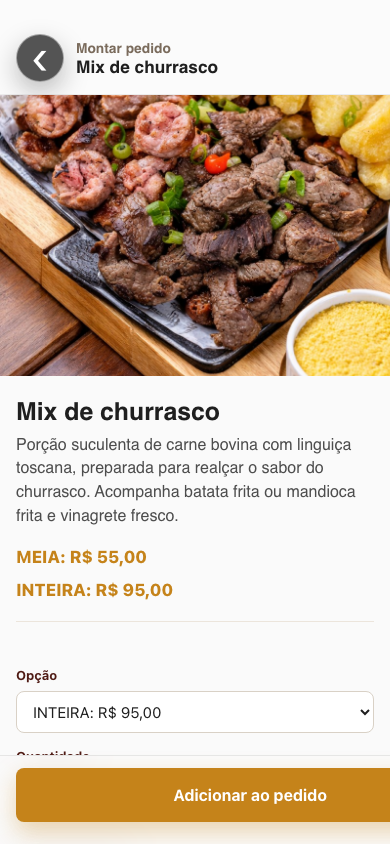
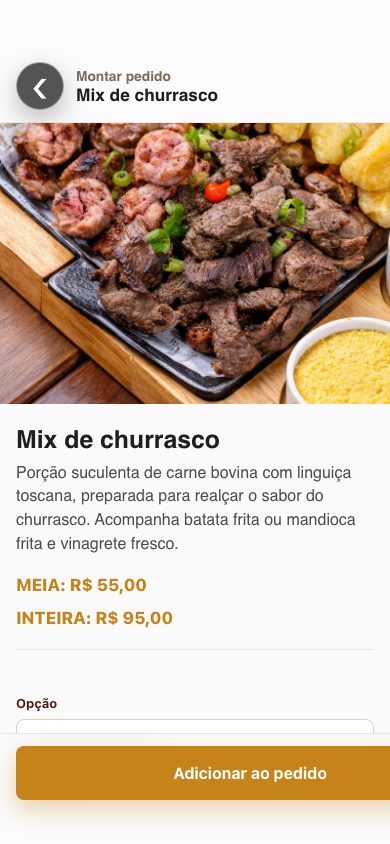
fix: improve mobile safe area layout

diff --git a/style.css b/style.css
@@ -2576,14 +2576,14 @@
 
     @media (max-width: 640px) {
       :root {
-        --app-safe-top: max(env(safe-area-inset-top), 18px);
-        --app-safe-bottom: max(env(safe-area-inset-bottom), 16px);
+        --app-safe-top: max(env(safe-area-inset-top), 44px);
+        --app-safe-bottom: max(env(safe-area-inset-bottom), 24px);
         --app-side: 16px;
       }
 
       body.screenshot-mode {
-        --app-safe-top: 34px;
-        --app-safe-bottom: 22px;
+        --app-safe-top: 54px;
+        --app-safe-bottom: 34px;
       }
 
       .mainContainer,
@@ -2615,7 +2615,7 @@
 
       .header-beco,
       .header-cardapio {
-        padding-top: var(--app-safe-top);
+        padding: calc(var(--app-safe-top) + 10px) var(--app-side) 14px;
       }
 
       .header-cardapio .header-voltar {
@@ -2723,19 +2723,28 @@
 
       .pedido-carrinho {
         right: var(--app-side);
-        bottom: var(--app-safe-bottom);
+        bottom: calc(var(--app-safe-bottom) + 10px);
         left: var(--app-side);
+        display: flex;
+        justify-content: center;
       }
 
       .pedido-carrinho-toggle {
         width: 100%;
+        max-width: 520px;
         min-height: 56px;
+        display: inline-flex;
+        align-items: center;
+        justify-content: center;
+        gap: 8px;
+        padding-right: 18px;
+        padding-left: 18px;
       }
 
       .pedido-carrinho-painel {
         right: 0;
         left: 0;
-        bottom: calc(64px + var(--app-safe-bottom));
+        bottom: calc(78px + var(--app-safe-bottom));
         width: 100%;
         max-height: calc(100vh - var(--app-safe-top) - 96px);
         border-radius: 14px;
@@ -2749,7 +2758,7 @@
 
       .detalhe-produto-header,
       .pix-header {
-        padding: var(--app-safe-top) var(--app-side) 12px;
+        padding: calc(var(--app-safe-top) + 8px) var(--app-side) 12px;
       }
 
       .detalhe-voltar {
@@ -2801,7 +2810,14 @@
       }
 
       .detalhe-acao-wrap {
-        padding: 12px var(--app-side) var(--app-safe-bottom);
+        display: flex;
+        justify-content: center;
+        padding: 12px var(--app-side) calc(var(--app-safe-bottom) + 10px);
+      }
+
+      .detalhe-adicionar {
+        width: 100%;
+        max-width: 520px;
       }
 
       .pix-qrcode {
